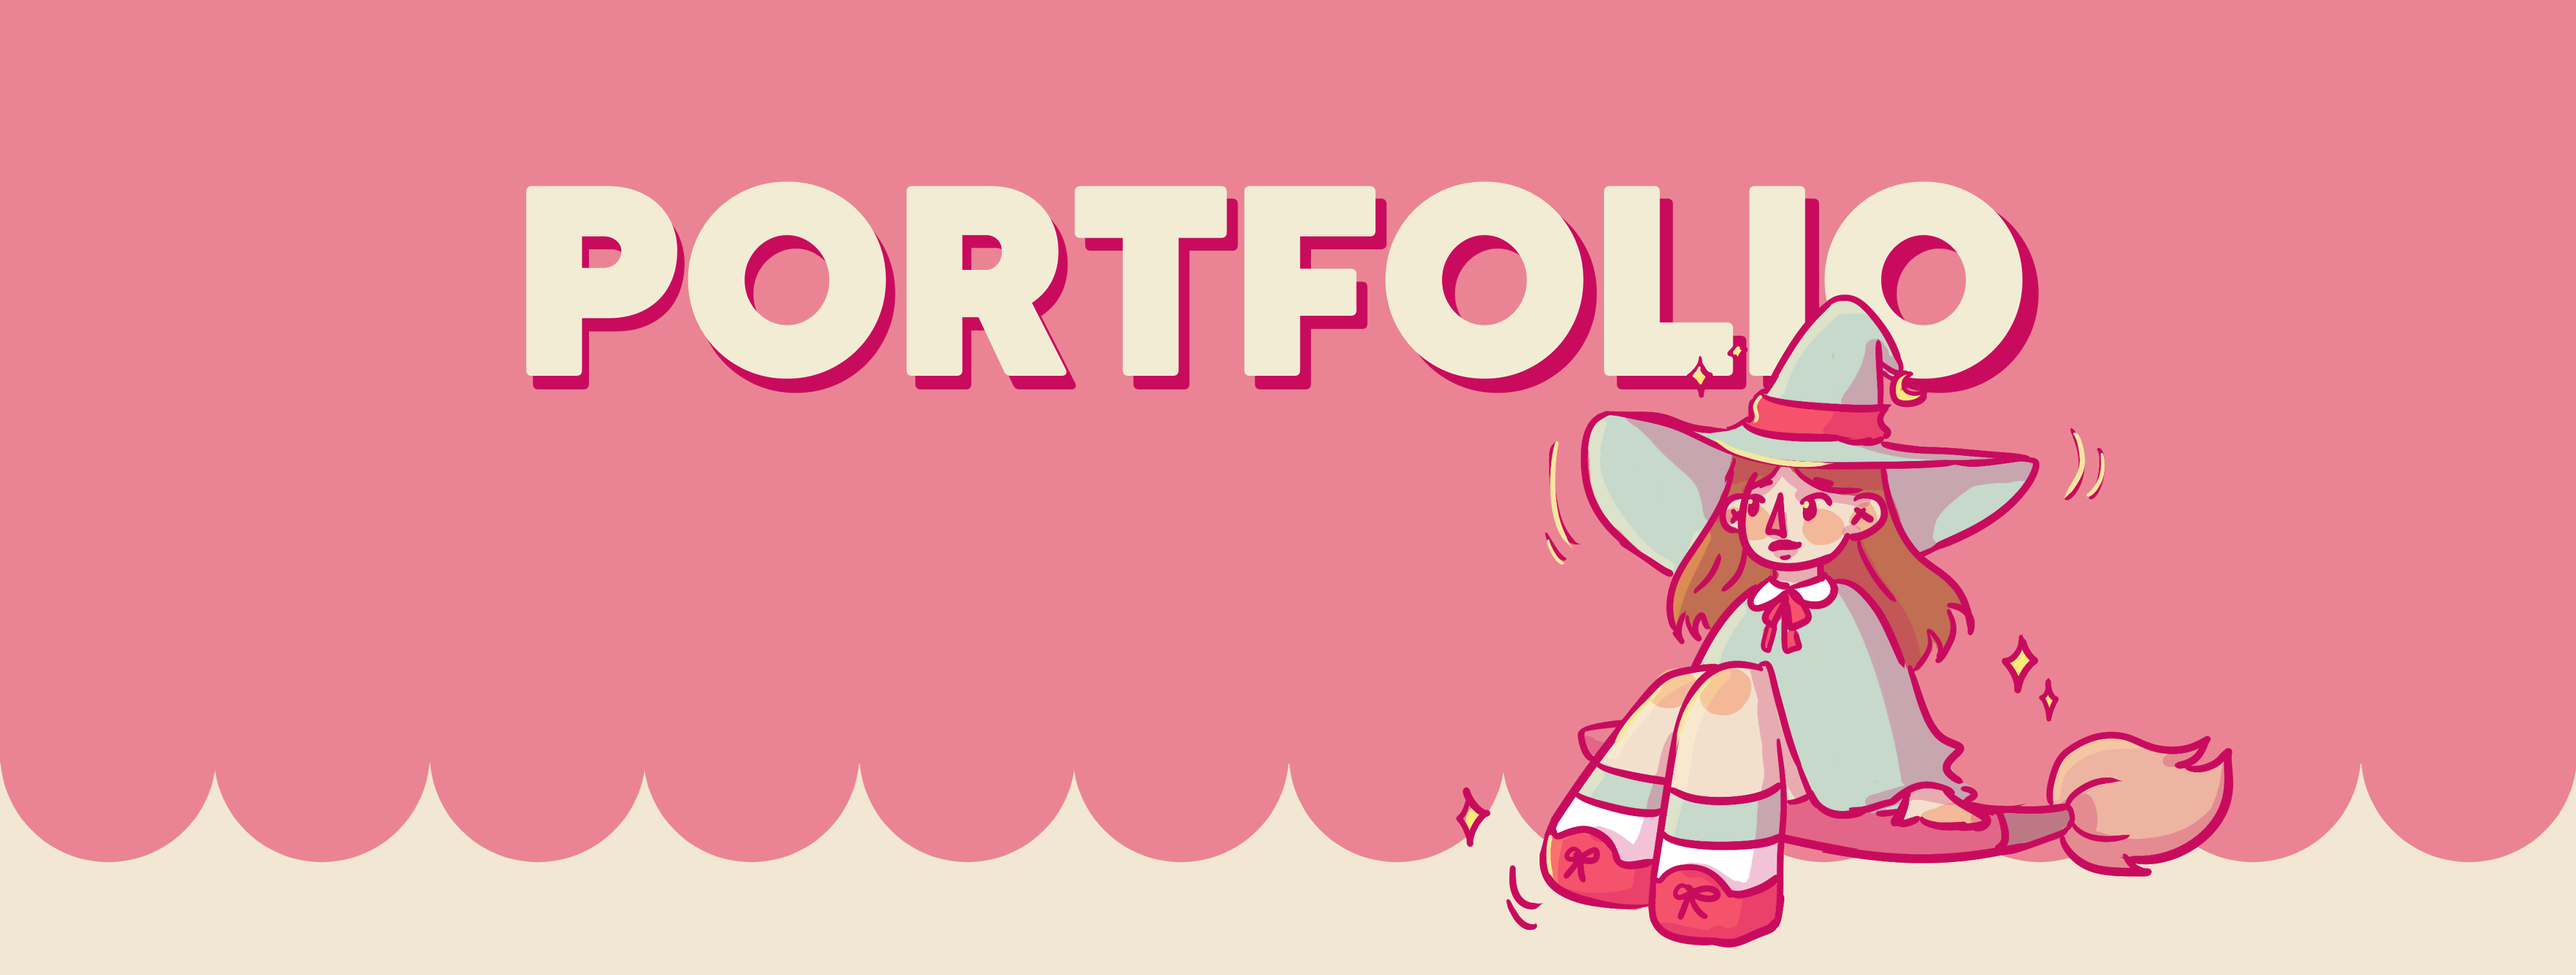
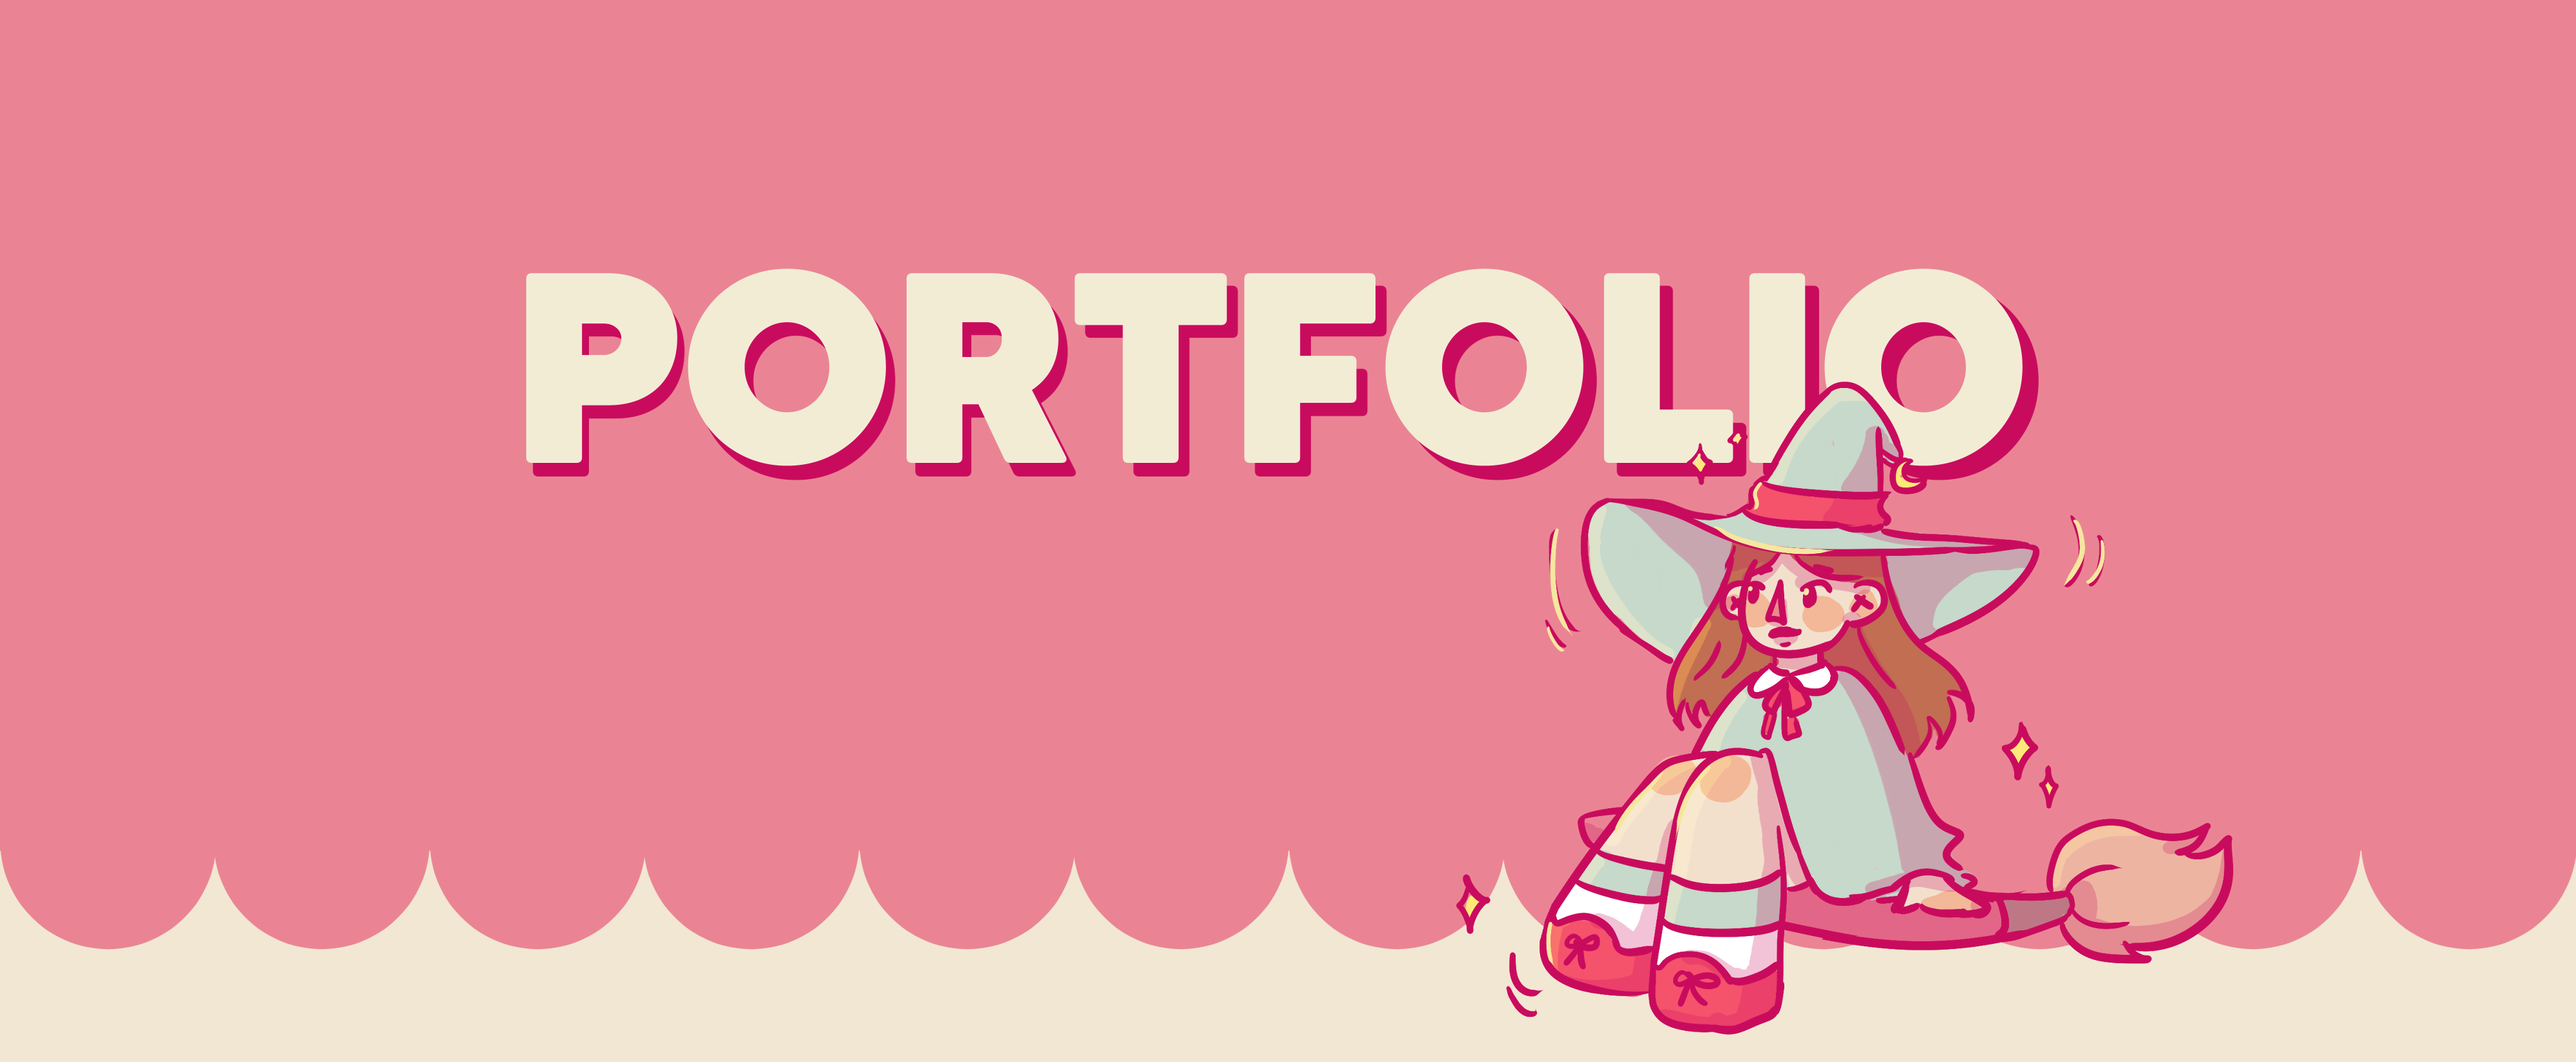
plus beau

diff --git a/index.css b/index.css
@@ -1,51 +1,74 @@
 body {
-    background-color: #F2E7D2;
-    margin: 0;
-    padding: 0;
+  background-color: #F2E7D2;
+  margin: 0;
+  padding: 0;
 }
+
 header {
-    background-color: #ea8494;
+  height:96vh;
+  background: url("Images/Index/site1.png") no-repeat top center / cover;
+  color: white;
+  position: relative;
 }
 
-.titre {
-    margin: 0;
-    padding: 0;
-    width: 100%;
-    margin: 0;
-    padding: 0;
-}
-
-.titre img {
-    width: 100%;
-    height: auto;
-    display: block;
-    object-fit: contain;
-    object-position: top center;
-}
-.galerie {
-  padding: 50px;
+/* Conteneur du contenu */
+.header-content {
   display: flex;
-  flex-direction: column;   /* ⬅ empile en colonne */
-  align-items: center;      /* centre horizontalement */
-  gap: 40px;                /* espace entre les lignes */
+  justify-content: space-between;
+  align-items: center;
+  padding: 15px;
+  position: absolute;
+  top: 0;
+  left: 0;
+  width: 100%;
+  box-sizing: border-box;
 }
 
-/* Titre */
+/* NAV */
+nav a {
+  color: white;
+  text-decoration: none;
+}
+
+/* SECTIONS (espacement global propre) */
+section {
+  padding: 60px 20px;
+}
+
+/* GALERIE */
+.galerie {
+  display: flex;
+  flex-direction: column;
+  align-items: center;
+  justify-content: flex-start;
+  padding-top: 2px;
+  gap: 40px;
+}
+
+/* TITRE */
 .galerie-titre {
   text-align: center;
   font-family: 'Combo', serif;
   color: #6AADA7;
-  font-size: 40px;
+  font-size: 2.5rem; /* plus responsive */
 }
 
-/* Images */
+/* GRID IMAGES */
 .galerie-grid {
   display: flex;
   justify-content: center;
-  gap: 200px;
+  flex-wrap: wrap;      /* important pour responsive */
+  gap: 40px;            /* réduit et flexible */
 }
 
-/* Bouton */
+/* IMAGES */
+.galerie-grid img {
+  max-width: 100%;
+  height: auto;
+  border-radius: 10px;
+}
+
+/* BOUTON */
 .btn {
   background-color: #ea8494;
   color: white;
@@ -55,17 +78,10 @@ header {
   border-radius: 30px;
   cursor: pointer;
   font-size: 14px;
-    text-decoration: none;
-}
-
-.btn,
-.btn:visited,
-.btn:hover,
-.btn:active {
   text-decoration: none;
-  color: white;
+  transition: 0.3s;
 }
 
 .btn:hover {
-  background-color:#c90b5e;
+  background-color: #c90b5e;
 }

diff --git a/index.html b/index.html
@@ -13,24 +13,24 @@
 </head>
 <body>
     <header>
-   	 <a href="index.html">
-    <h1>Seolia</h1>
-    </a>
+      <div class="header-content">
+        <a href="index.html">
+          <h1>Seolia</h1>
+        </a>
 
-   	 <nav>
-         <a href="galerie.html">GALERIE</a>
-       	 <a href="jeux.html">JEUX</a>
-         <a href="toutim.html">TOUTIM MAGAZINE</a>
-         <a href="univers/univers.html">PERSONNAGES</a>
-         <a href="charlie.html">OU EST CHARLIE ?</a>
-         <a href="tests.html">TESTS</a>
-	 </nav>
-	</header>
+        <nav>
+          <a href="galerie.html">GALERIE</a>
+          <a href="jeux.html">JEUX</a>
+          <a href="toutim.html">TOUTIM MAGAZINE</a>
+          <a href="univers/univers.html">PERSONNAGES</a>
+          <a href="charlie.html">OU EST CHARLIE ?</a>
+          <a href="tests.html">TESTS</a>
+        </nav>
+      </div>
+    </header>
 
    <main>
-   <section class="titre">
-        <img src="Images/Index/site1.png" alt="Portfolio">
-    </section>
+   
     <section class="galerie" id="galerie">
         <h2 class="galerie-titre">✧   Mes derniers dessins   ✧</h2>
         <div class="galerie-grid"></div>

diff --git a/jeux.html b/jeux.html
@@ -6,6 +6,7 @@
     <link href="https://fonts.googleapis.com/css2?family=Cinzel+Decorative&display=swap" rel="stylesheet">
     <link href="https://fonts.googleapis.com/css2?family=Combo&display=swap" rel="stylesheet">
     <link href="https://fonts.googleapis.com/css2?family=Limelight&display=swap" rel="stylesheet">
+    <link href="https://fonts.googleapis.com/css2?family=Bebas+Neue&family=Outfit:wght@300;400;500;600;700&display=swap" rel="stylesheet">
     <link rel="stylesheet" href="style.css">
 	<link rel="stylesheet" href="style_jeux.css">
 </head>
@@ -13,15 +14,15 @@
 <body>
     <header>
    	 <a href="index.html">
-    <h1>SEOLIA</h1>
+    <h1>Seolia</h1>
     </a>
 
    	 <nav>
-       	 <a href="galerie.html">GALERIE</a>
+         <a href="galerie.html">GALERIE</a>
        	 <a href="jeux.html">JEUX</a>
-         <a href=#>DESSIN INFINI</a>
          <a href="toutim.html">TOUTIM MAGAZINE</a>
-         <a href="charlie.html">OU EST CHARLIE ?</a>    
+         <a href="univers/univers.html">PERSONNAGES</a>
+         <a href="charlie.html">OU EST CHARLIE ?</a>  
 	 </nav>
 	</header>
 

diff --git a/style_charlie.css b/style_charlie.css
@@ -2,15 +2,11 @@
     margin: 0;
     height: 100%;
 }
-
-/* HEADER FIXE */
 header {
     display: flex;
     justify-content: space-between;
     align-items: center;
     padding: 15px;
-    color: #13334F;
-    background-color:#8BB8E0;
     position: fixed;
     top: 0;
     left: 0;
@@ -18,40 +14,6 @@ header {
     height: 70px;
     box-sizing: border-box;
     z-index: 10;
-}
-
-/* TITRE */
-header h1 {
-    font-size: 25px;
-    font-family: 'Cinzel Decorative', serif;
-    margin: 0;
-}
-
-header a {
-    color: #13334F;
-    text-decoration: none;
-}
-
-header a:hover {
-    color: #B00C38;
-}
-
-/* NAV */
-nav a {
-    font-size: 15px;
-    font-family: 'Combo', sans-serif;
-    color: #13334F;
-    margin-right: 50px;
-    text-decoration: none;
-    transition: all 0.3s ease;
-}
-
-nav a:last-child {
-    margin-right: 0;
-}
-
-nav a:hover {
-    color: #B00C38;
 }
 
 /* LAYOUT GLOBAL */

diff --git a/charlie.html b/charlie.html
@@ -3,7 +3,7 @@
 <head>
 <meta charset="UTF-8">
 <title>ouestcharlie</title>
-
+<link rel="stylesheet" href="style.css">
 <link rel="stylesheet" href="style_charlie.css">
 
 <link href="https://fonts.googleapis.com/css2?family=Cinzel+Decorative&display=swap" rel="stylesheet">
@@ -11,6 +11,8 @@
 <link href="https://fonts.googleapis.com/css2?family=Bebas+Neue&family=Outfit:wght@300;400;500;600;700&display=swap" rel="stylesheet">
 
 <script src="https://openseadragon.github.io/openseadragon/openseadragon.min.js"></script>
+	<link href="https://fonts.googleapis.com/css2?family=Bebas+Neue&family=Outfit:wght@300;400;500;600;700&display=swap" rel="stylesheet">
+  
 
 </head>
 

diff --git a/univers/univers.css b/univers/univers.css
@@ -50,5 +50,5 @@
   font-family: 'Montserrat', sans-serif;
   font-size: 13px;
   letter-spacing: 1px;
-  color:white;
+  color:#c90b5e;
 }
